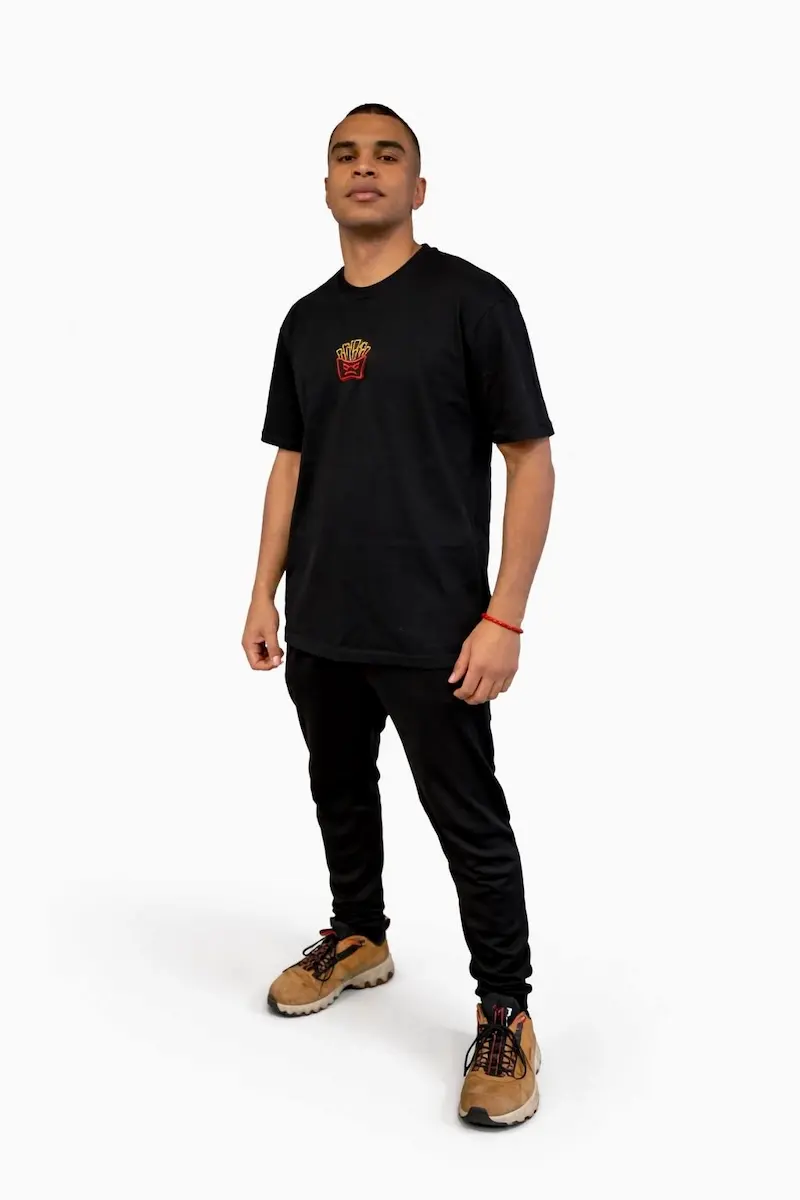
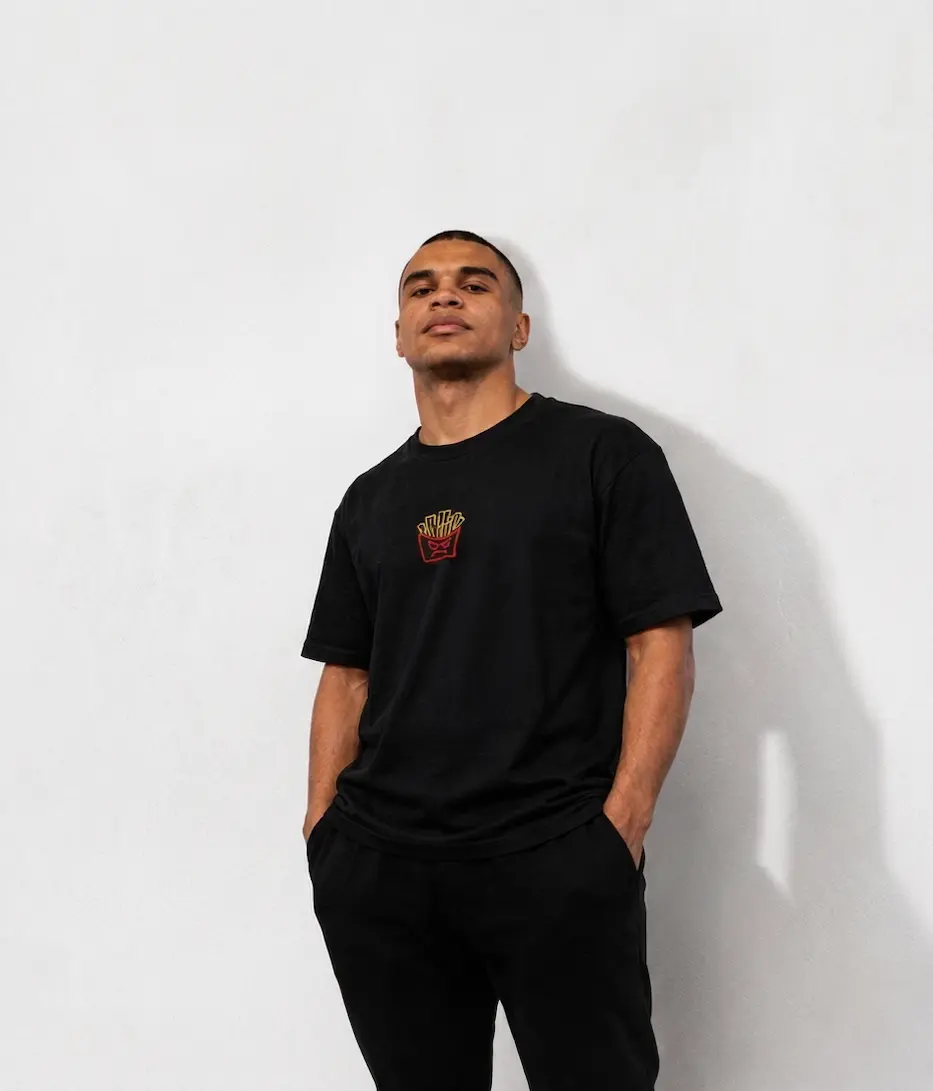
change product photos

diff --git a/src/components/Header.js b/src/components/Header.js
@@ -116,28 +116,35 @@ const handleVideoEnd = (id) => {
               </video>
             )}
 
-            {/* 2. GŁÓWNE WIDEO */}
-            <video 
-              ref={el => videoRefs.current[video.id] = el}
-              autoPlay 
-              muted={activeVideoId === video.id ? !isUnmuted : true}// Zawsze true na starcie dla przeglądarki
-              loop={window.innerWidth >= 576}  
-              playsInline 
-              className="header-video-item"
-              onLoadedMetadata={(e) => {
-                // Na starcie ustawiamy 0.5, chyba że to aktywny i odciszony na mobile
-                if (window.innerWidth < 576) {
-                  e.target.playbackRate = (activeVideoId === video.id && isUnmuted) ? 1.0 : 0.5;
-                } else {
-                  e.target.playbackRate = activeVideoId === video.id ? 1.0 : 0.5;
-                }
-              }} 
-              onEnded={() => handleVideoEnd(video.id)}
-            >
-              <source src={`${process.env.PUBLIC_URL}/videos/${video.src}`} type="video/webm" />
-              <source src={`${process.env.PUBLIC_URL}/videos/${video.src}`} type="video/mp4" />
+          
+      
+<video 
+  ref={el => videoRefs.current[video.id] = el}
+  autoPlay 
+  muted={activeVideoId === video.id ? !isUnmuted : true}
+  loop={window.innerWidth >= 576}  
+  playsInline 
+  
+  // KLUCZ DO WYDAJNOŚCI:
+  // Na mobile ładujemy tylko film nr 1. Reszta dostaje "none", póki nie klikniesz.
+  preload={window.innerWidth < 576 && video.id !== 1 ? "none" : "metadata"}
+  
+  // Dodajemy poster, o którym pisałem wyżej:
+  poster={`${process.env.PUBLIC_URL}/posters/poster${video.id}.webp`}
+  
+  // Mówimy przeglądarce, że film nr 1 to priorytet życiowy:
+  {...(video.id === 1 ? { fetchpriority: "high" } : {})}
 
-            </video>
+  className="header-video-item"
+  onLoadedMetadata={(e) => {
+    e.target.playbackRate = (activeVideoId === video.id && isUnmuted) ? 1.0 : 0.5;
+  }} 
+  onEnded={() => handleVideoEnd(video.id)}
+>
+  <source src={`${process.env.PUBLIC_URL}/videos/${video.src}`} type="video/mp4" />
+         <source src={`${process.env.PUBLIC_URL}/videos/${video.src}`} type="video/webm" />
+</video>
+
 
             {/* PRZYCISK UNMUTE */}
             {/* Na Desktopie: pokazuj zawsze gdy nieaktywny */}

diff --git a/src/App.js b/src/App.js
@@ -53,16 +53,21 @@ const finalizujZamowienieWBazie = async () => {
 useEffect(() => {
     const params = new URLSearchParams(window.location.search);
     if (params.get('status') === 'success') {
-        // Dopiero tutaj robisz fetch do bazy i wysyłasz maila!
-        // Dane klienta masz w stanie customerData (o ile nie odświeżył strony ręcznie)
+window.history.replaceState({}, document.title, "/order-success");
         finalizujZamowienieWBazie();
     }
 }, []);
 const handleOrderSuccess = (totalPrice, data, orderId) => {
+    ReactPixel.track('Purchase', { 
+        value: totalPrice, 
+        currency: 'PLN',
+        content_name: 'Banda Frytki Tee',
+        order_id: orderId 
+    });
     setFinalPrice(totalPrice); 
     setCustomerData({ ...data, orderId: orderId }); 
     // Wewnątrz handleOrderSuccess
-ReactPixel.track('Purchase', { value: totalPrice, currency: 'PLN' });
+
     // ZMIEŃ TO:
     setView('payment'); 
     localStorage.setItem('savedView', 'payment');
@@ -78,6 +83,12 @@ const triggerGlobalShake = () => {
     localStorage.setItem('savedView', 'checkout');
     // Przewiń na górę strony przy zmianie widoku
     window.scrollTo(0, 0);
+    ReactPixel.track('InitiateCheckout', {
+        content_category: 'T-Shirt',
+        content_ids: ['frytki_01'],
+        value: price,
+        currency: 'PLN'
+    });
   };
  const goBackToShop = () => {
     setView('shop'); // Zmieniamy z 'kupa' na 'shop'

diff --git a/src/components/Product.js b/src/components/Product.js
@@ -5,13 +5,14 @@ import '../css/Product.css';
 import KoszulkaFront from '../photo/koszulka-banda-frytki-250g-czarna-oversize.webp';
 import Detal1 from '../photo/Detal1.webp';
 import Detal2 from '../photo/Detal2.webp';
+import Detal3 from '../photo/Detal3.webp';
 import { Helmet} from 'react-helmet-async';
 
 function Product({ onBuyNow, shake, setShake, navigate, currentView,price }) {
     const [selectedSize, setSelectedSize] = useState(null);
     const [termsAccepted, setTermsAccepted] = useState(false);
     
-    const ProductImages = [KoszulkaFront, Detal1, Detal2];
+    const ProductImages = [KoszulkaFront, Detal1, Detal2, Detal3];
     const [mainImage, setMainImage] = useState(ProductImages[0]);
     const [zoomStyle, setZoomStyle] = useState({ display: 'none' });
 